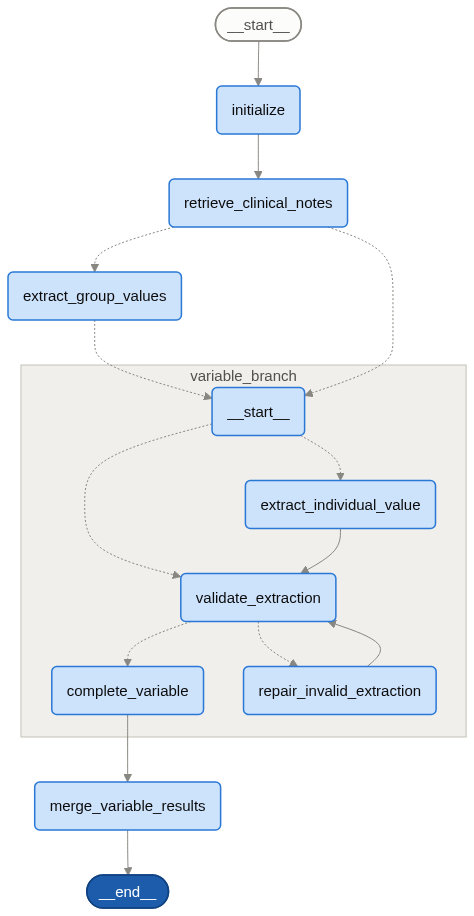
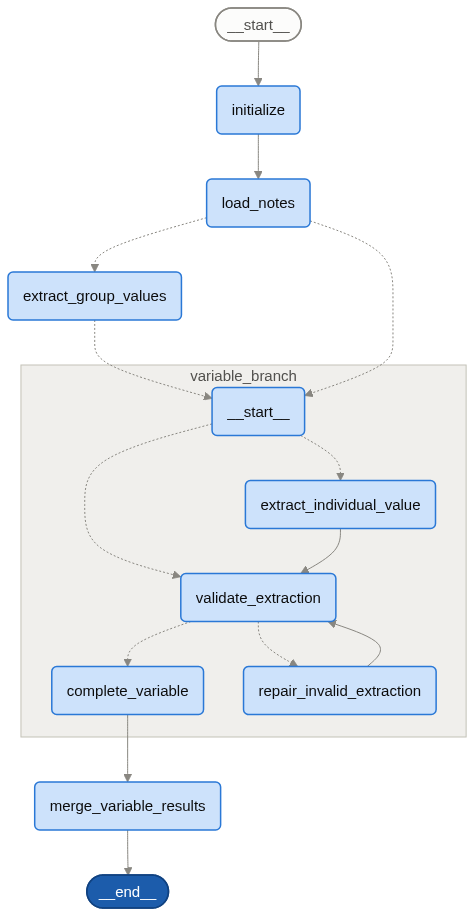
fix concept identification bug

Changed region(s): [[0.3544, 0.1834, 0.7384, 0.2751], [0.827, 0.3057, 0.8565, 0.3668], [0.7975, 0.2751, 0.827, 0.3057]]

diff --git a/src/cipoc/agents/note_scanner.py b/src/cipoc/agents/note_scanner.py
@@ -1,3 +1,6 @@
+import json
+import logging
+
 from typing_extensions import Annotated
 from pydantic import BaseModel, Field
 
@@ -11,9 +14,11 @@ from cipoc.models import (
     ProcessedClinicalNote,
     CancerMention,
     CancerStatus,
+    ConfidenceLevel,
     ConceptWithEvidence,
     CONCEPT_DESCRIPTIONS,
-    build_concept_presence_dict,
+    TextSpan,
+    confidence_field,
 )
 from cipoc.utils import CipocConfig, run_with_progress
 from cipoc.prompts.note_scanner import (
@@ -26,9 +31,7 @@ from cipoc.prompts.note_scanner import (
 from .base import BaseAgent
 
 
-# Rendered once: the concept vocabulary the detection call must judge, with descriptions.
-_CONCEPT_LIST = "\n".join(f"- {name}: {desc}" for name, desc in CONCEPT_DESCRIPTIONS.items())
-_CONCEPT_DETECTION_PROMPT = CONCEPT_DETECTION_PROMPT.format(concept_list=_CONCEPT_LIST)
+logger = logging.getLogger(__name__)
 
 
 # Graph state
@@ -39,6 +42,11 @@ class ScannerInput(BaseModel):
 class ConceptFinding(ConceptWithEvidence):
     """One detected concept: presence/confidence/evidence plus which concept it is."""
     concept: str = Field(description="Concept key, exactly as given in the list of concepts to evaluate.")
+    presence: bool = Field(description="Whether the concept is present in the note.")
+    confidence: ConfidenceLevel = confidence_field()
+    evidence: list[TextSpan] = Field(
+        description="Verbatim supporting spans; empty when the concept is absent."
+    )
 
 
 class ConceptFindingList(BaseModel):
@@ -86,27 +94,50 @@ class NoteScannerAgent(BaseAgent):
 
     def detect_concepts(self, state: ScannerState) -> dict:
         """Single LLM call detecting presence/evidence for every tracked concept."""
-        response = self.agent.structured(
-            ConceptFindingList, state.messages + [HumanMessage(_CONCEPT_DETECTION_PROMPT)]
+        concepts_to_evaluate = self._concepts_to_findings()
+        prompt = CONCEPT_DETECTION_PROMPT.format(
+            concept_list=json.dumps(concepts_to_evaluate, indent=2, ensure_ascii=False)
         )
-        return {"concepts": self._findings_to_concepts(response.findings)}
+        response = self.agent.structured(
+            ConceptFindingList, state.messages + [HumanMessage(prompt)]
+        )
+
+        expected = set(CONCEPT_DESCRIPTIONS)
+        returned = [finding.concept for finding in response.findings]
+        if len(returned) != len(expected) or set(returned) != expected:
+            logger.warning(
+                "Concept detection for note %s returned an incomplete concept set: %s",
+                state.note.note_id,
+                returned,
+            )
+
+        # Keep one finding per known concept. If duplicates disagree, presence
+        # wins so a malformed response cannot hide a positive finding.
+        findings_by_concept: dict[str, ConceptFinding] = {}
+        for finding in response.findings:
+            if finding.concept not in expected:
+                continue
+            current = findings_by_concept.get(finding.concept)
+            if current is None or (finding.presence and not current.presence):
+                findings_by_concept[finding.concept] = finding
+
+        concepts: dict[str, ConceptWithEvidence] = {}
+        for name in CONCEPT_DESCRIPTIONS:
+            finding = findings_by_concept.get(name)
+            concepts[name] = ConceptWithEvidence(
+                presence=finding.presence if finding else name == "cancer",
+                confidence=finding.confidence if finding else ConfidenceLevel.LOW,
+                evidence=finding.evidence if finding else [],
+            )
+        return {"concepts": concepts}
 
     @staticmethod
-    def _findings_to_concepts(findings: list[ConceptFinding]) -> dict[str, ConceptWithEvidence]:
-        """Fold detected findings into the full concept dict.
-
-        Starts from the default all-absent dict so every tracked concept is always
-        present as a key; unknown concept names returned by the model are ignored.
-        """
-        concepts = build_concept_presence_dict(with_evidence=True)
-        for finding in findings:
-            if finding.concept in concepts:
-                concepts[finding.concept] = ConceptWithEvidence(
-                    presence=finding.presence,
-                    confidence=finding.confidence,
-                    evidence=finding.evidence,
-                )
-        return concepts
+    def _concepts_to_findings() -> list[dict[str, str]]:
+        """Build the complete concept template supplied to the detection call."""
+        return [
+            {"concept": name, "description": description}
+            for name, description in CONCEPT_DESCRIPTIONS.items()
+        ]
 
     def summarize_note(self, state: ScannerState) -> dict:
         """Summarize a clinical note and tag it with search keywords."""
@@ -172,7 +203,6 @@ class NoteScannerAgent(BaseAgent):
 
 
 if __name__ == "__main__":
-    import json
     from pathlib import Path
 
     # Synthetic clinical note used to exercise the scanner end-to-end.
@@ -181,12 +211,15 @@ if __name__ == "__main__":
         note_data = json.load(f)
 
     agent = NoteScannerAgent()
-    agent.draw(path="src/cipoc/agents/visualization/note_scanner.png")
+    # agent.draw(path="src/cipoc/agents/visualization/note_scanner.png")
     if isinstance(note_data, dict):
         note_data = [note_data]
 
-    result = [agent.run(note).model_dump() for note in note_data]
+    result = agent.run(note_data[2]).model_dump()
+    # result = [agent.run(note).model_dump() for note in note_data]
     output_path = Path(__file__).resolve().parents[3] / "tests" / "test_outputs" / "scanner_test.json"
     output_path.parent.mkdir(parents=True, exist_ok=True)
     with open(output_path, "w") as f:
         json.dump(result, f, indent=2)
+    
+    print(json.dumps(result, indent=2))

diff --git a/tests/test_note_scanner.py b/tests/test_note_scanner.py
@@ -1,0 +1,116 @@
+import unittest
+
+from pydantic import ValidationError
+
+from cipoc.agents.note_scanner import (
+    ConceptFinding,
+    ConceptFindingList,
+    NoteScannerAgent,
+    ScannerState,
+)
+from cipoc.models import (
+    ClinicalNote,
+    ConfidenceLevel,
+    CONCEPT_DESCRIPTIONS,
+    TextSpan,
+)
+
+
+class FakeLLM:
+    def __init__(self, response):
+        self.response = response
+        self.messages = None
+
+    def structured(self, schema, messages, **kwargs):
+        self.messages = messages
+        return self.response
+
+
+def _finding(name, present=False):
+    return ConceptFinding(
+        concept=name,
+        presence=present,
+        confidence="max",
+        evidence=[TextSpan(id=1, text="carcinoma")] if present else [],
+    )
+
+
+def _scanner_with(response):
+    scanner = object.__new__(NoteScannerAgent)
+    scanner.agent = FakeLLM(response)
+    return scanner
+
+
+def _state():
+    return ScannerState(
+        note=ClinicalNote(
+            note_id=1,
+            date="2025-01-01",
+            type="Pathology Report",
+            content="Final diagnosis: invasive carcinoma.",
+        ),
+        messages=[],
+    )
+
+
+class ConceptDetectionTests(unittest.TestCase):
+    def test_concept_template_contains_every_description(self):
+        self.assertEqual(
+            NoteScannerAgent._concepts_to_findings(),
+            [
+                {"concept": name, "description": description}
+                for name, description in CONCEPT_DESCRIPTIONS.items()
+            ],
+        )
+
+    def test_finding_requires_model_populated_fields(self):
+        with self.assertRaises(ValidationError):
+            ConceptFinding(concept="cancer")
+
+    def test_detect_concepts_normalizes_an_incomplete_response(self):
+        scanner = _scanner_with(
+            ConceptFindingList(findings=[_finding("surgery", present=True)])
+        )
+
+        with self.assertLogs("cipoc.agents.note_scanner", level="WARNING"):
+            result = scanner.detect_concepts(_state())
+
+        concepts = result["concepts"]
+        self.assertEqual(set(concepts), set(CONCEPT_DESCRIPTIONS))
+        self.assertTrue(concepts["surgery"].presence)
+        self.assertTrue(concepts["cancer"].presence)
+        self.assertEqual(concepts["cancer"].confidence, ConfidenceLevel.LOW)
+
+    def test_detect_concepts_prefers_positive_duplicate(self):
+        response = ConceptFindingList(
+            findings=[_finding(name) for name in CONCEPT_DESCRIPTIONS]
+            + [_finding("cancer", present=True)]
+        )
+        scanner = _scanner_with(response)
+
+        with self.assertLogs("cipoc.agents.note_scanner", level="WARNING"):
+            result = scanner.detect_concepts(_state())
+
+        self.assertTrue(result["concepts"]["cancer"].presence)
+
+    def test_detect_concepts_passes_template_and_returns_findings(self):
+        response = ConceptFindingList(
+            findings=[
+                _finding(name, present=name == "cancer")
+                for name in CONCEPT_DESCRIPTIONS
+            ]
+        )
+        scanner = _scanner_with(response)
+
+        result = scanner.detect_concepts(_state())
+
+        self.assertTrue(result["concepts"]["cancer"].presence)
+        self.assertEqual(set(result["concepts"]), set(CONCEPT_DESCRIPTIONS))
+        prompt = scanner.agent.messages[-1].content
+        for name, description in CONCEPT_DESCRIPTIONS.items():
+            self.assertIn(f'"concept": "{name}"', prompt)
+            self.assertIn(description, prompt)
+
+
+if __name__ == "__main__":
+    unittest.main()

diff --git a/src/cipoc/agents/extractor.py b/src/cipoc/agents/extractor.py
@@ -400,7 +400,7 @@ class ExtractorAgent(BaseAgent):
 
 if __name__ == "__main__":
     agent = ExtractorAgent()
-    agent.draw(path="src/cipoc/agents/visualization/extractor.png")
+    # agent.draw(path="src/cipoc/agents/visualization/extractor.png")
 
     # Case facts matching tests/fixtures/note_bundle.json (left breast, dx 2025);
     # scopes coding instructions and valid codes from documents/rules. The gross
@@ -422,3 +422,8 @@ if __name__ == "__main__":
 
     result = agent.run(ExtractorInput(requested_variables=variable_group, notes=notes))
     # print(json.dumps(result.model_dump(), indent=2))
+
+    output_path = Path(__file__).resolve().parents[3] / "tests" / "test_outputs" / "extractor_test.json"
+    output_path.parent.mkdir(parents=True, exist_ok=True)
+    with open(output_path, "w") as f:
+        json.dump(result.model_dump(), f, indent=2, default=str)

diff --git a/src/cipoc/agents/orchestrator.py b/src/cipoc/agents/orchestrator.py
@@ -473,7 +473,7 @@ if __name__ == "__main__":
         structured_data = {int(k): str(v) for k, v in json.loads(text).items()}
 
     agent = OrchestratorAgent()
-    agent.draw(path="src/cipoc/agents/visualization/orchestrator.png")
+    # agent.draw(path="src/cipoc/agents/visualization/orchestrator.png")
 
     note_path = Path(__file__).resolve().parents[3] / "tests" / "fixtures" / "note_bundle.json"
     with open(note_path, "r") as f:
